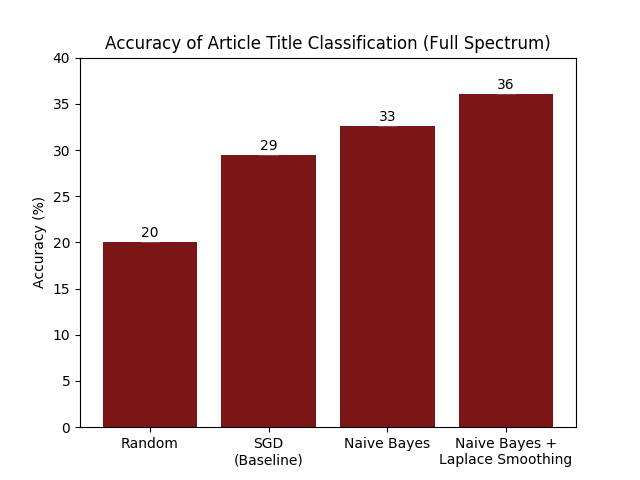
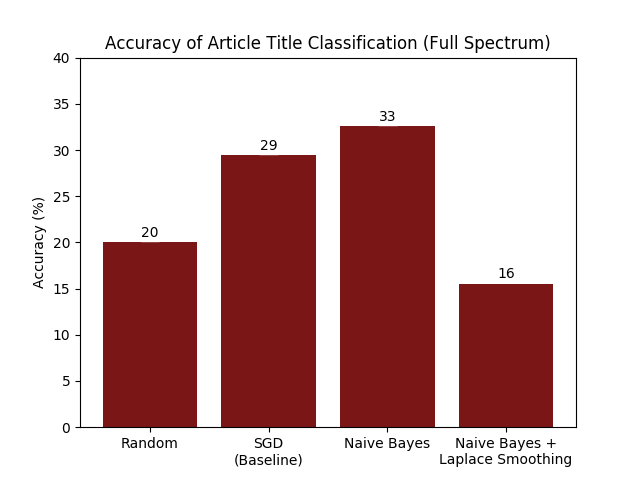
saving

Changed region(s): [[0.7188, 0.1562, 0.875, 0.5938]]

diff --git a/bias/news_bias_baseline.py b/bias/news_bias_baseline.py
@@ -26,7 +26,7 @@ GUESS_BIAS = False
 GUESS_PUBLISHER = False 
 GUESS_BIAS_OF_PUBLISHER = False
 LAPLACE_SMOOTHING = False
-ALPHA=1
+ALPHA=2
 stops = set(stopwords.words('english'))
 
 def bagOfWordsExtractor(text):
@@ -132,7 +132,6 @@ def evaluate(X_train, Y_train, X_test, Y_test, out):
                 classifier = BernoulliNB(alpha=ALPHA)
             else:
                 classifier = BernoulliNB(alpha=0)
-            classifier = ComplementNB()
             classifier.fit(X_train, Y_train)
         elif NAIVE_BAYES_COM:
             print("Using Naive Bayes complement")

diff --git a/bias/run_eval.py b/bias/run_eval.py
@@ -54,10 +54,10 @@ logisticRegressionParams = params.copy()
 #runAll(logisticRegressionParams, "LogisticRegression")
 
 naiveBayesParams = params.copy()
-naiveBayesParams["NaiveBayesCom"] = True
+naiveBayesParams["NaiveBayesBer"] = True
 runAll(naiveBayesParams, "NaiveBayes")
 
 naiveBayesLaplaceParams = params.copy()
-naiveBayesLaplaceParams["NaiveBayesCom"] = True
+naiveBayesLaplaceParams["NaiveBayesBer"] = True
 naiveBayesLaplaceParams["LaplaceSmoothing"] = True
 runAll(naiveBayesLaplaceParams, "LaplaceNaiveBayes")
